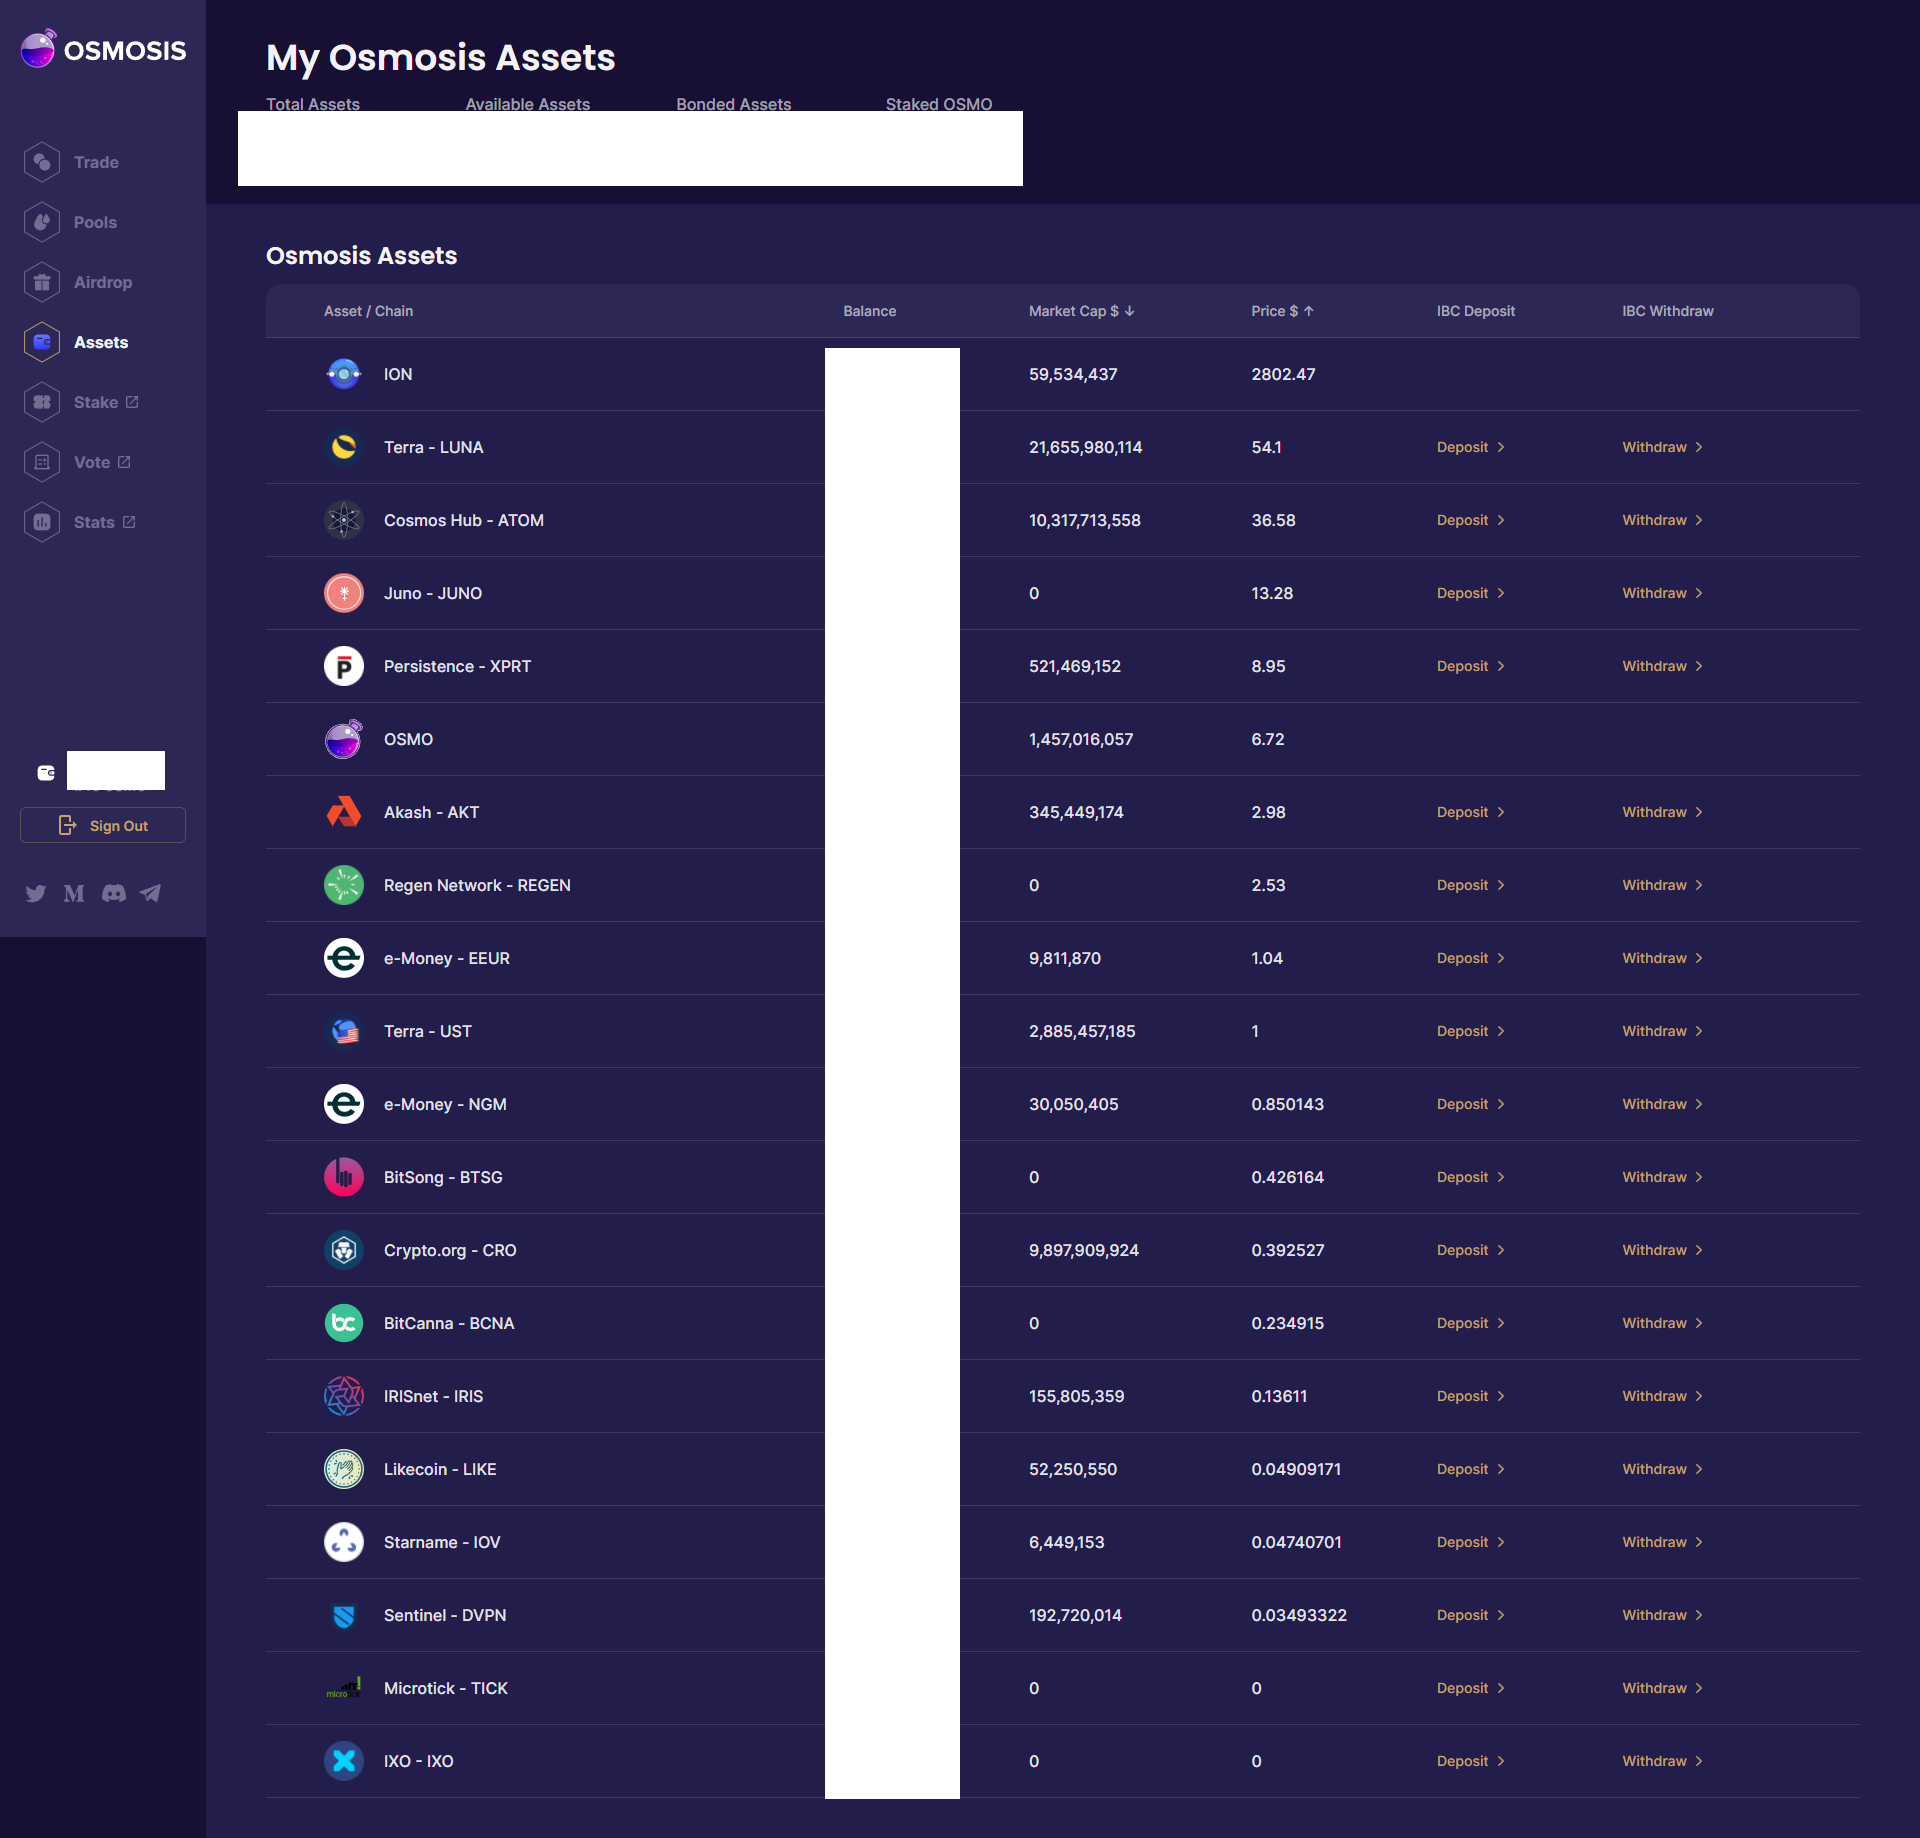
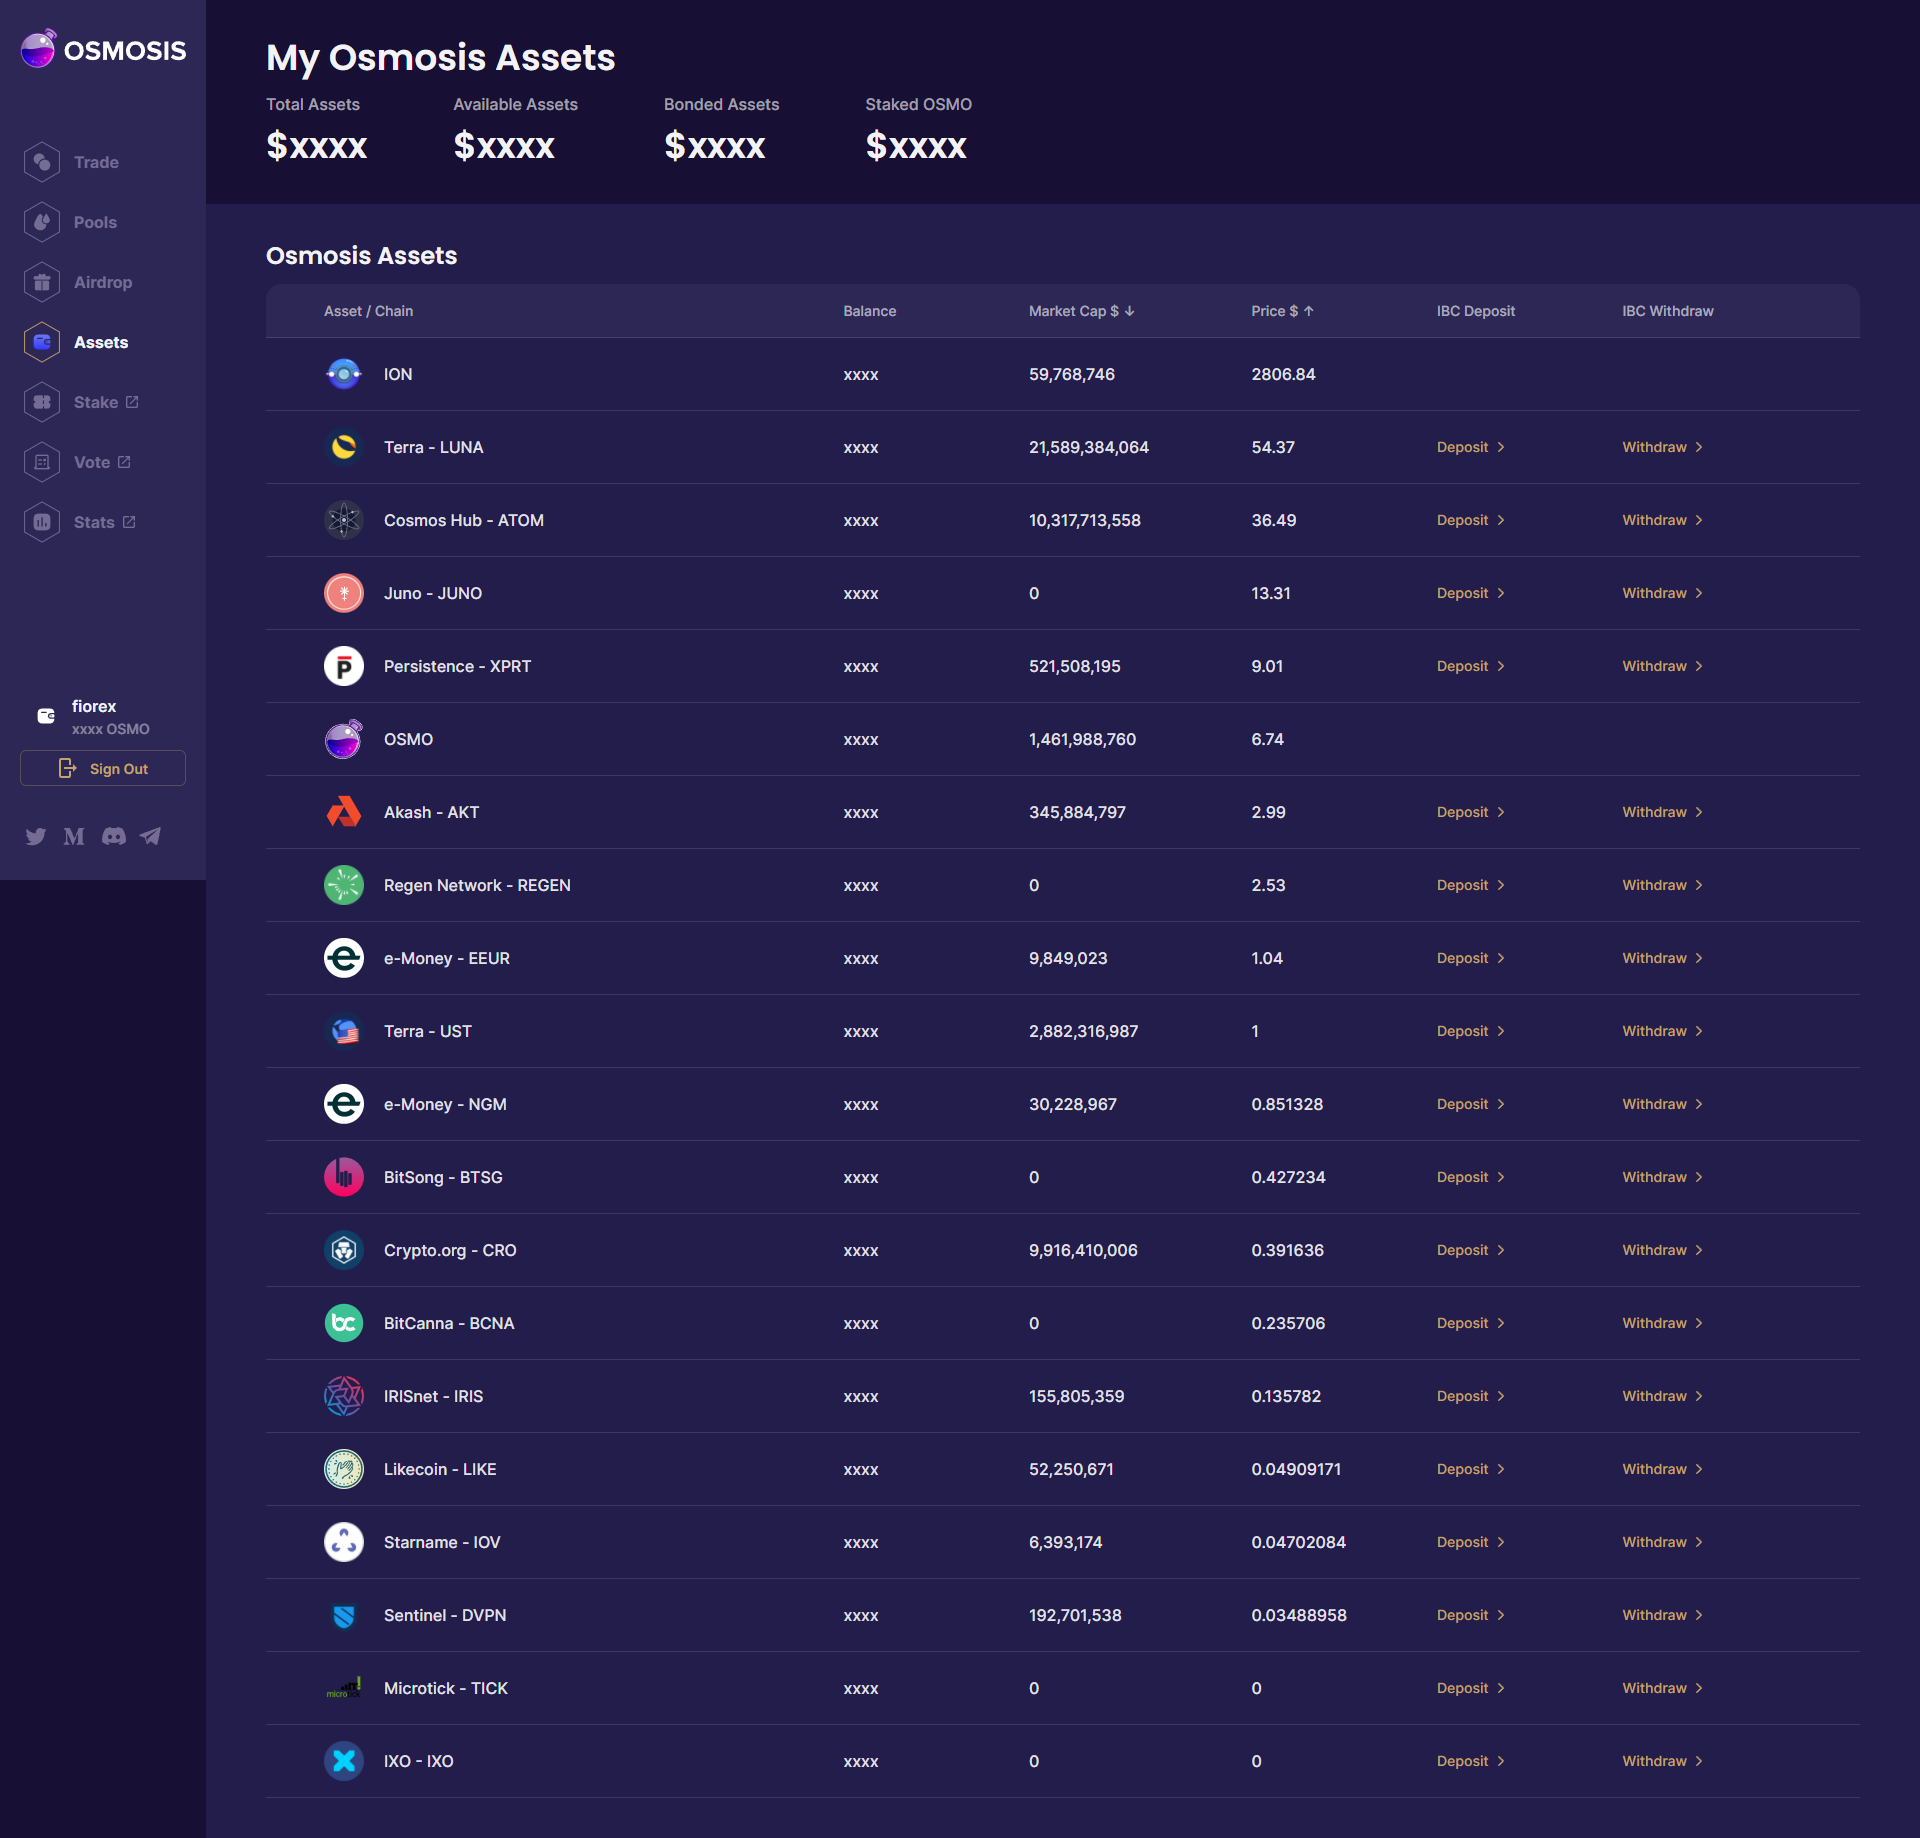
Fixed screens and updates README.md

diff --git a/README.md b/README.md
@@ -25,11 +25,15 @@ It also add some icon to the pool card:
 ### Usage
 
 1. Install the extension
-2. Go to [Osmosis pools page](https://app.osmosis.zone/pools)
-3. Wait 10 seconds to gather data -> After that a button will show in the upper-right corner
-4. Press Activate Button
-5. Enjoy!
+2. Go to [Osmosis](https://app.osmosis.zone)
+3. Navigate to "Assets"
+4. Wait 10 seconds to gather data -> After that a button will show in the upper-right corner
+5. Press Activate Button
+6. Enjoy!
 
+### Screen
+
+![bam](https://raw.githubusercontent.com/dj-fiorex/osmosis-filter/main/screens/assets.png)
 
 ## [Osmosis assets page](https://app.osmosis.zone/assets) by adding two new columns and sorting:
 
@@ -39,9 +43,10 @@ It also add some icon to the pool card:
 ### Usage
 
 1. Install the extension
-2. Go to [Osmosis assets page](https://app.osmosis.zone/assets)
-3. Wait 10 seconds to gather data
-4. Enjoy!
+2. Go to [Osmosis](https://app.osmosis.zone)
+3. Navigate to "Assets"
+4. Wait 10 seconds to gather data
+5. Enjoy!
 
 # If you think this extension is usefull please leave a star!
 
